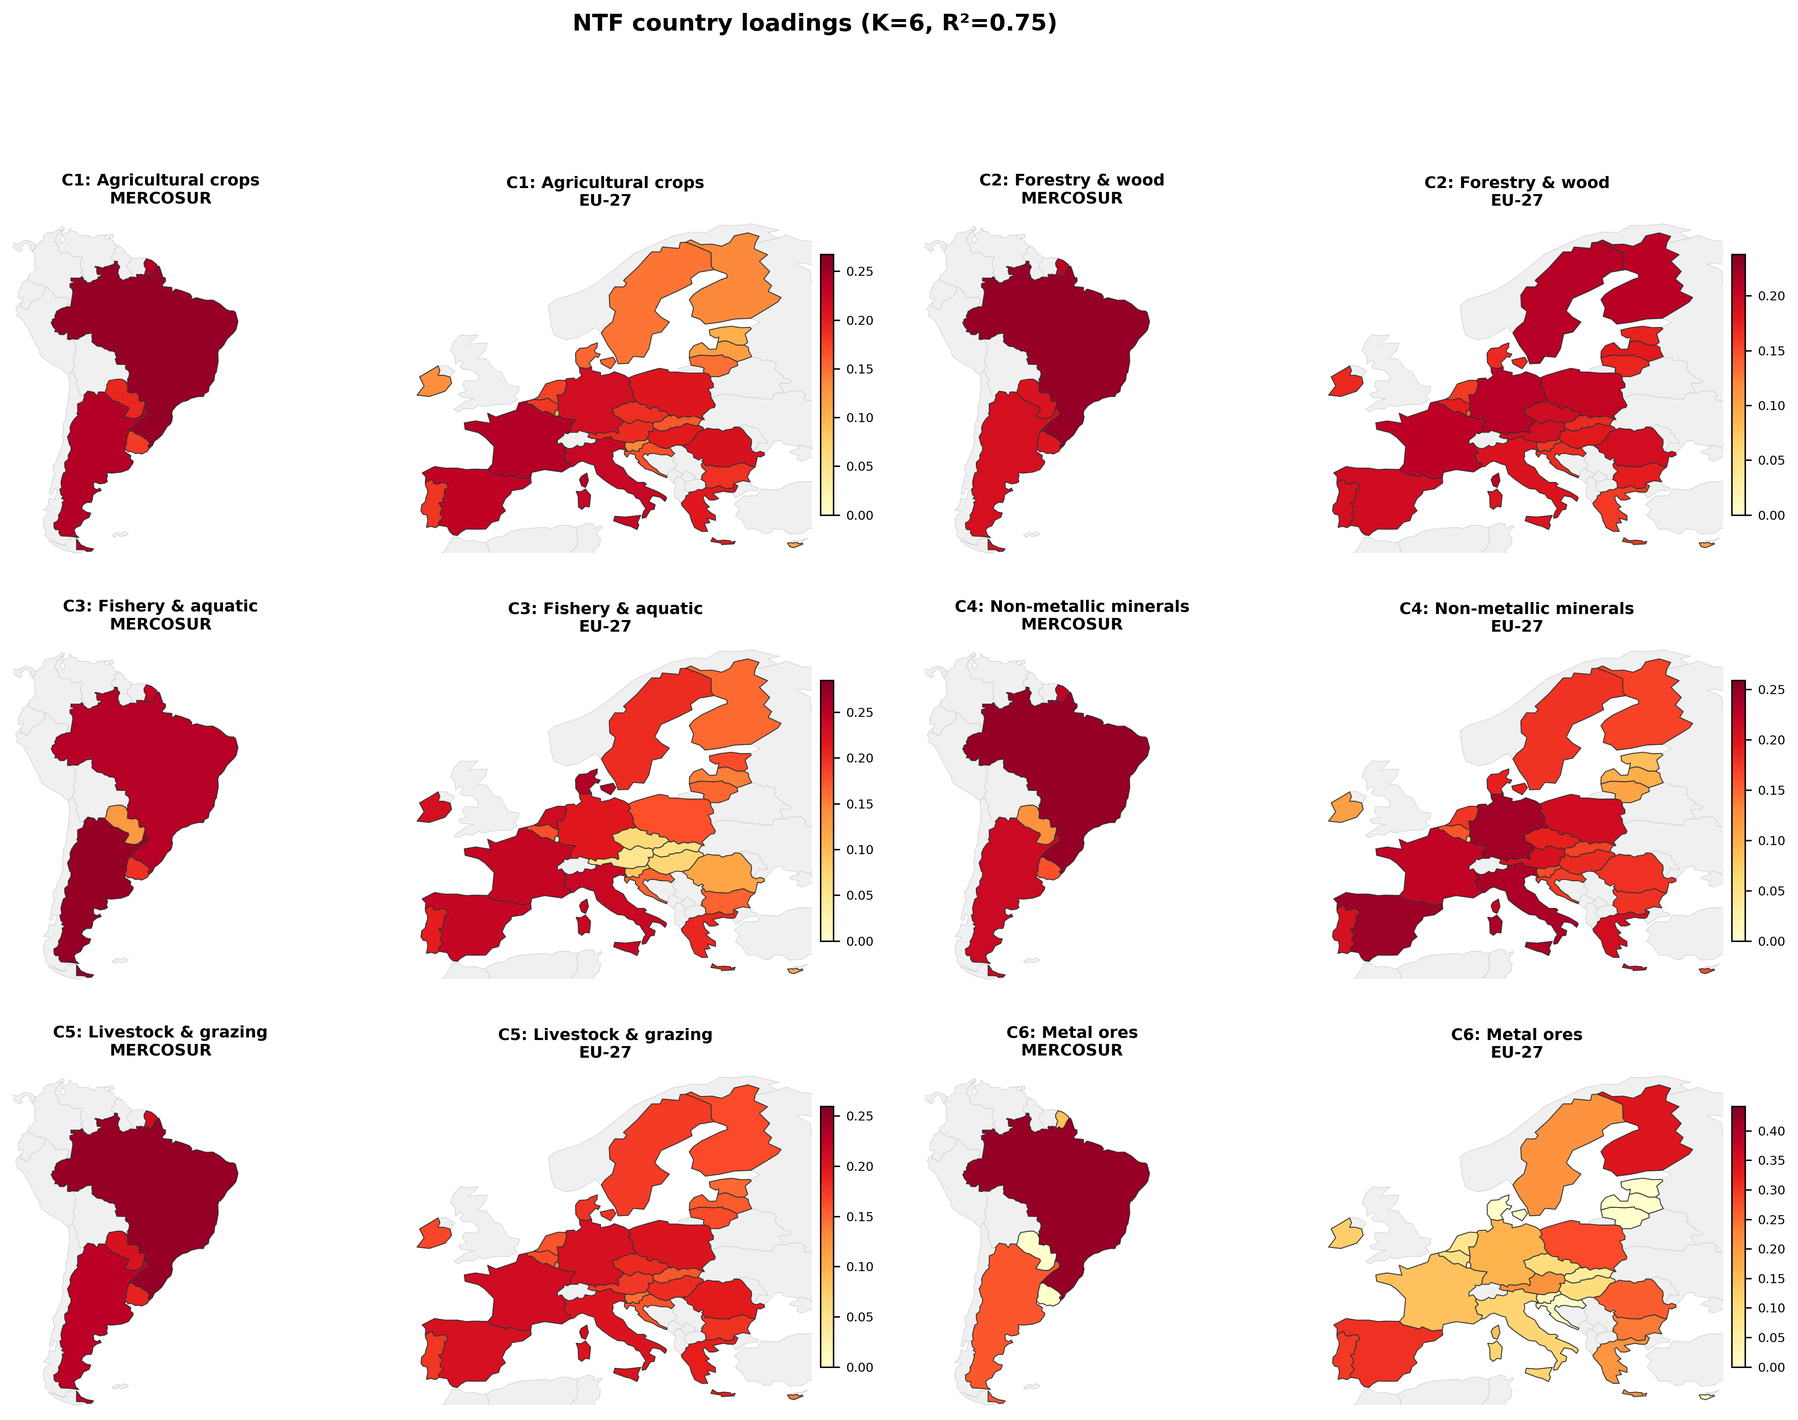
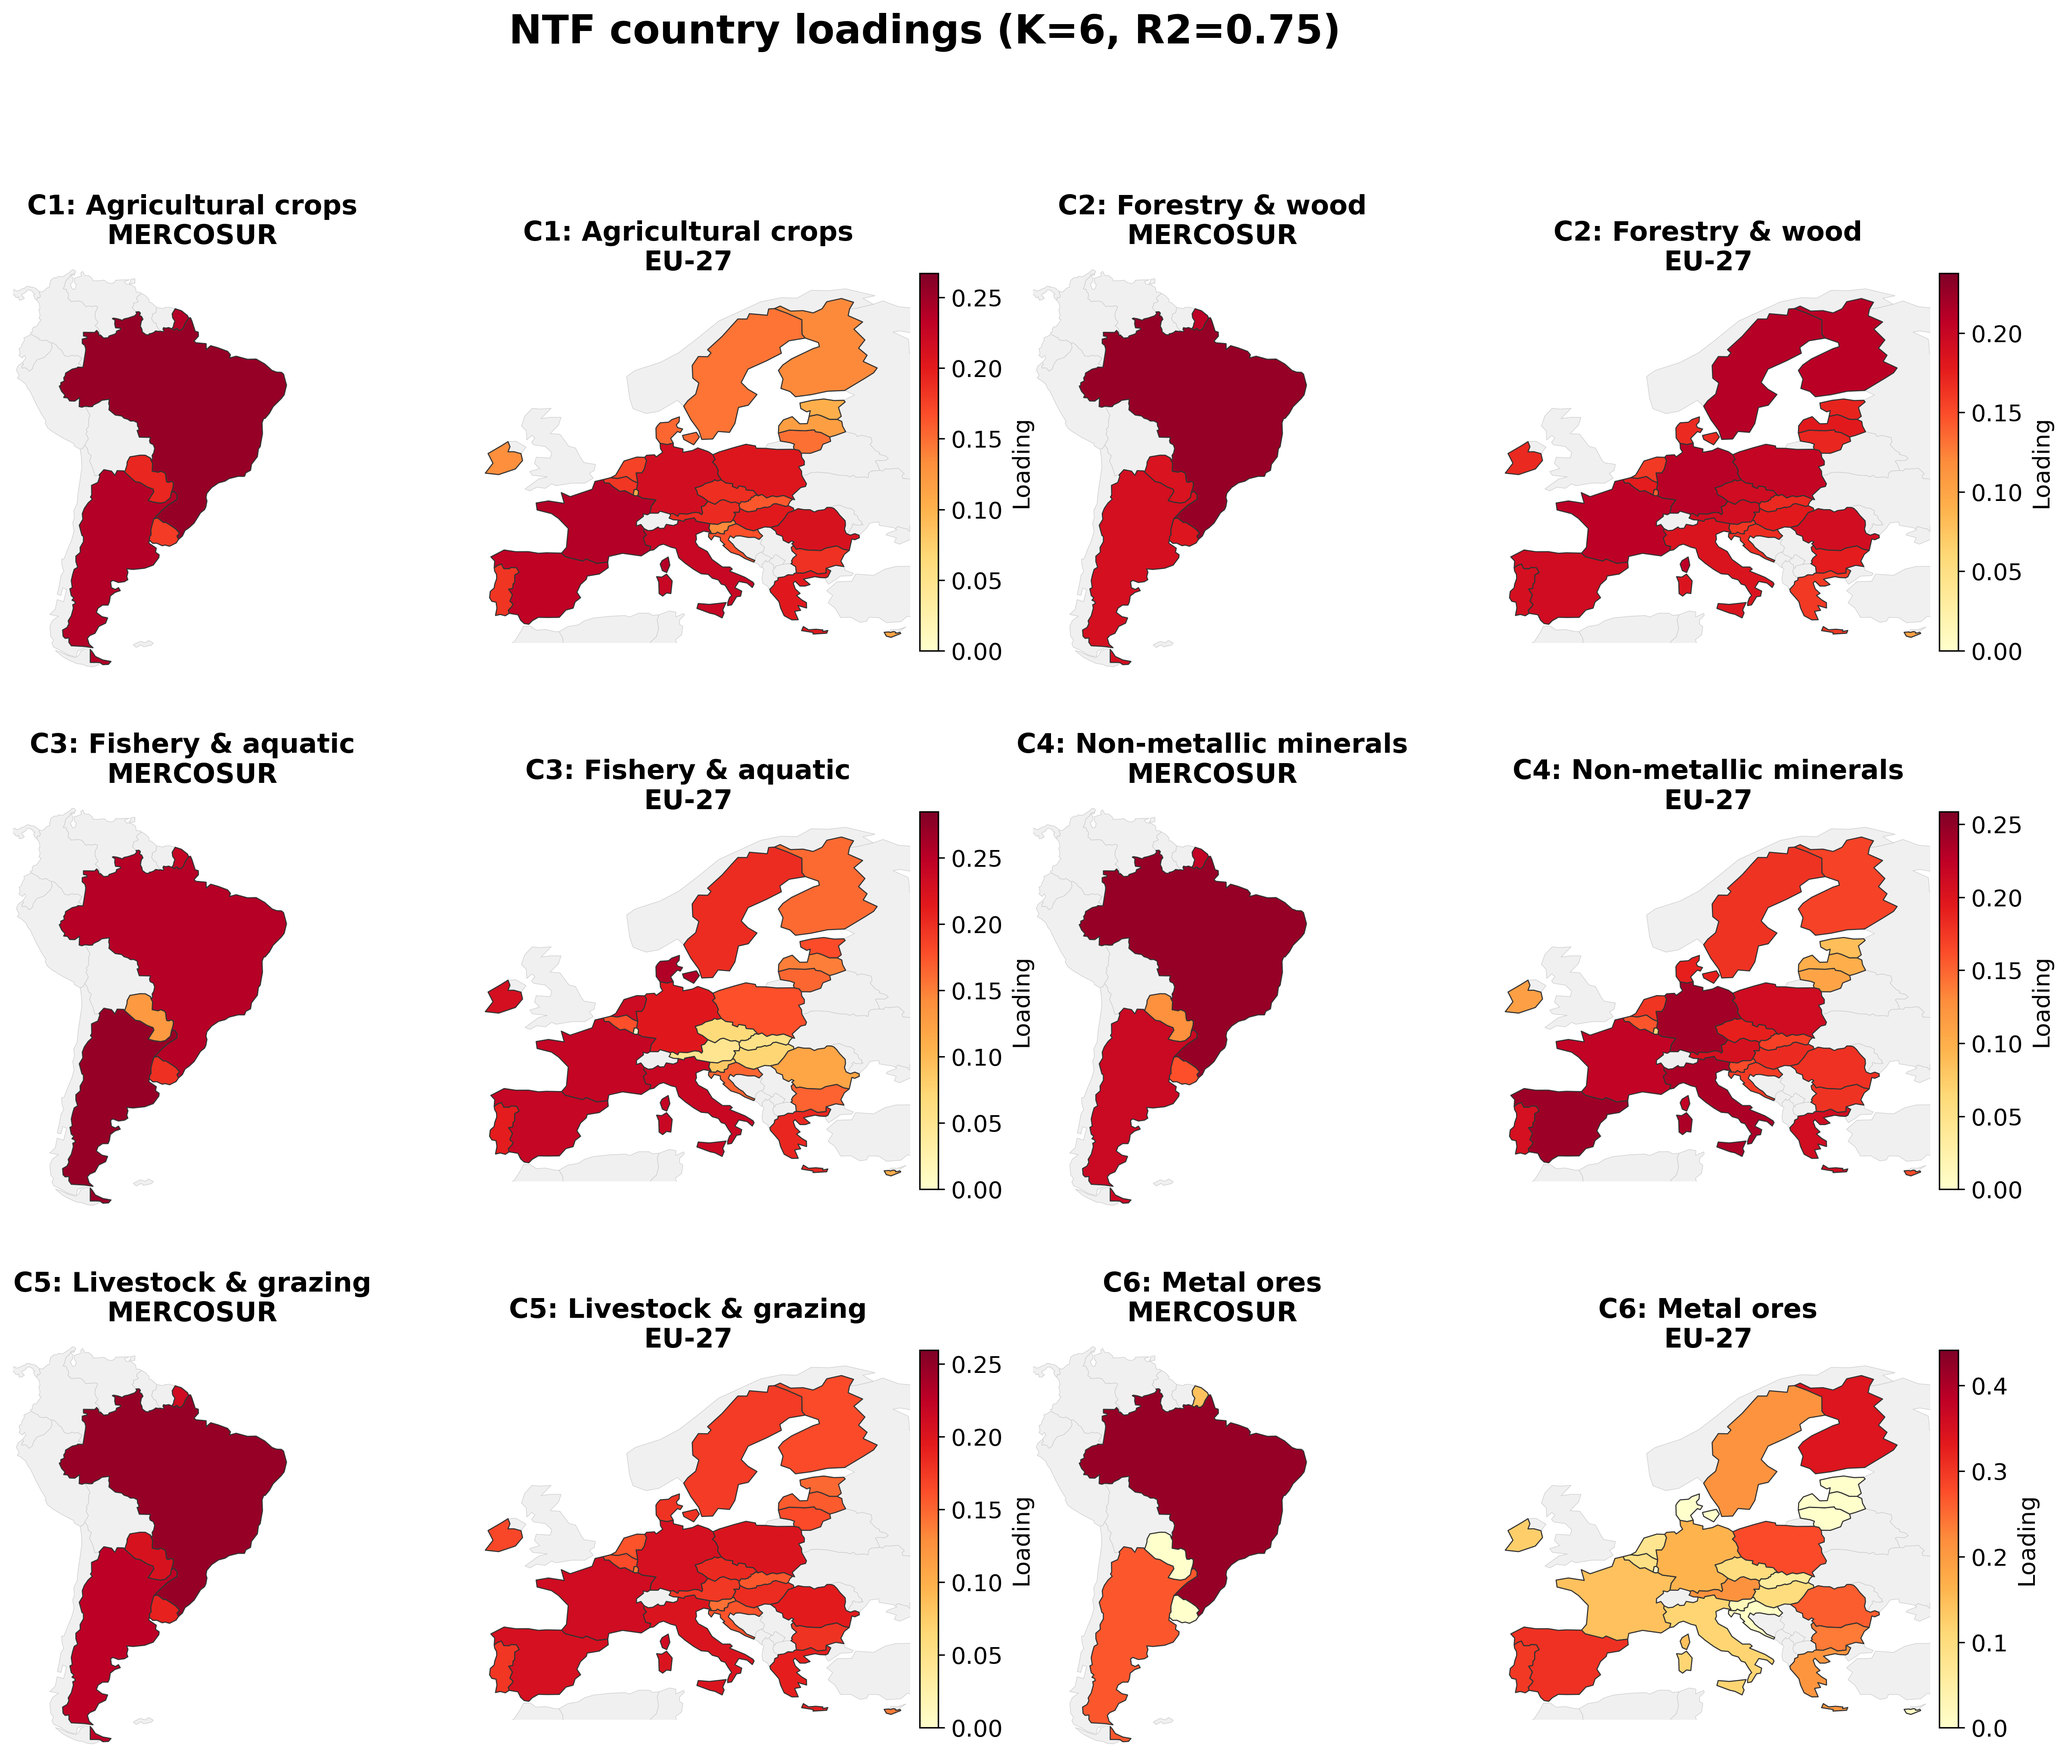
Enlarge fonts on main-text figures 2, 4, 5
Regenerate the historical stacked-area (Fig 2), choropleth loadings (Fig 4),
and projection-scenario (Fig 5) figures with larger titles, axis labels,
tick labels, legends, and in-panel annotations for legibility. Add
scripts/06_regenerate_main_figures.py (standalone; runs from intermediate
data without the full GLORIA tensor).

diff --git a/scripts/06_regenerate_main_figures.py b/scripts/06_regenerate_main_figures.py
@@ -1,0 +1,151 @@
+"""
+06_regenerate_main_figures.py — Large-font versions of Figs 2, 4, 5
+===================================================================
+Regenerates the three main-text figures with enlarged, legible fonts
+(interior labels, axis ticks, scale legends). Standalone: reads only the
+intermediate data in data/ (ntf_loadings.nc, tensor_summary.parquet, the
+Natural Earth shapefile) — the full GLORIA tensor is not required.
+
+Outputs (JIE figure names) to figures/:
+  fig02_historical_trends.png    stacked-area extraction by MFA category
+  fig04_choropleth_loadings.png  choropleth of NTF country loadings
+  fig05_projection_scenarios.png baseline vs agreement temporal loadings
+"""
+import numpy as np
+import pandas as pd
+import xarray as xr
+import matplotlib.pyplot as plt
+import matplotlib.colors as mcolors
+import matplotlib.gridspec as gridspec
+import geopandas as gpd
+
+from config import (
+    DATA_DIR, FIG_DIR, COMP_LABELS, BLOC_COLORS, MFA_COLORS, MFA_ORDER,
+    AGREEMENT_SHOCKS, AGREEMENT_YEAR, PHASE_IN_YEARS, PROJECTION_END,
+    N_BOOTSTRAP, RANDOM_SEED,
+)
+
+plt.rcParams.update({
+    "font.size": 14, "axes.titlesize": 17, "axes.labelsize": 16,
+    "xtick.labelsize": 13, "ytick.labelsize": 13, "legend.fontsize": 15,
+    "figure.titlesize": 22,
+})
+
+loadings = xr.open_dataset(DATA_DIR / "ntf_loadings.nc")
+K = int(loadings.attrs["optimal_K"])
+R2 = float(loadings.attrs["final_R2"])
+country_codes = list(loadings.coords["country"].values)
+blocs = list(loadings.coords["bloc"].values)
+years = list(loadings.coords["year"].values)
+yl = loadings["year_loading"].values
+cl = loadings["country_loading"].values
+clabel = {f"C{k+1}": COMP_LABELS[k] for k in range(K)}
+
+# --- Fig 2: historical stacked area ---
+print("Fig 2 ...")
+ts = pd.read_parquet(DATA_DIR / "tensor_summary.parquet")
+fig, axes = plt.subplots(1, 2, figsize=(18, 7))
+for bi, (bloc, label, ax) in enumerate(zip(["MERCOSUR", "EU27"],
+                                           ["MERCOSUR-4", "EU-27"], axes)):
+    pivot = (ts[ts["bloc"] == bloc].groupby(["year", "mfa_category"])["tonnes"]
+             .sum().unstack("mfa_category")[MFA_ORDER] / 1e6)
+    pivot.plot.area(ax=ax, color=[MFA_COLORS[c] for c in MFA_ORDER],
+                    alpha=0.8, linewidth=0)
+    ax.set_title(label, fontsize=19, fontweight="bold")
+    ax.set_xlabel("Year", fontsize=16)
+    ax.set_ylabel("Megatonnes" if bi == 0 else "", fontsize=16)
+    ax.tick_params(labelsize=14)
+    ax.legend(loc="upper left", fontsize=15, frameon=True, framealpha=0.85)
+    ax.grid(True, alpha=0.2)
+plt.suptitle("Material extraction by MFA category (1990-2022)",
+             fontsize=22, fontweight="bold")
+plt.tight_layout()
+plt.savefig(FIG_DIR / "fig02_historical_trends.png", dpi=300, bbox_inches="tight")
+plt.close()
+
+# --- Fig 4: choropleth ---
+print("Fig 4 ...")
+world = gpd.read_file(DATA_DIR / "ne_110m_admin_0_countries.zip")
+world["ISO_A3"] = world["ISO_A3"].replace({"-99": None, "-099": None})
+for nm, code in {"France": "FRA", "Norway": "NOR", "Kosovo": "XKX"}.items():
+    world.loc[world["NAME_EN"] == nm, "ISO_A3"] = code
+sa_bounds, eu_bounds = [-82, -56, -20, 15], [-12, 34, 35, 72]
+fig = plt.figure(figsize=(20, 5 * ((K + 1) // 2)))
+gs = gridspec.GridSpec((K + 1) // 2, 4, wspace=0.08, hspace=0.30)
+cmap = plt.cm.YlOrRd
+for k in range(K):
+    row, col = k // 2, (k % 2) * 2
+    vals = cl[:, k]
+    merged = world.merge(pd.DataFrame({"ISO_A3": country_codes, "loading": vals}),
+                         on="ISO_A3", how="left")
+    vmax = vals.max() * 1.05
+    for panel, bounds, sub in [(col, sa_bounds, "MERCOSUR"),
+                               (col + 1, eu_bounds, "EU-27")]:
+        ax = fig.add_subplot(gs[row, panel])
+        world.plot(ax=ax, color="#f0f0f0", edgecolor="#cccccc", linewidth=0.3)
+        merged[merged["loading"].notna()].plot(
+            ax=ax, column="loading", cmap=cmap, vmin=0, vmax=vmax,
+            edgecolor="#333333", linewidth=0.6)
+        ax.set_xlim(bounds[0], bounds[2]); ax.set_ylim(bounds[1], bounds[3])
+        ax.set_title(f"C{k+1}: {clabel[f'C{k+1}']}\n{sub}",
+                     fontsize=15, fontweight="bold")
+        ax.axis("off")
+        if sub == "EU-27":
+            sm = plt.cm.ScalarMappable(cmap=cmap, norm=mcolors.Normalize(0, vmax))
+            sm.set_array([])
+            cbar = plt.colorbar(sm, ax=ax, fraction=0.04, pad=0.02)
+            cbar.ax.tick_params(labelsize=13)
+            cbar.set_label("Loading", fontsize=13)
+plt.suptitle(f"NTF country loadings (K={K}, R2={R2:.2f})",
+             fontsize=22, fontweight="bold", y=1.005)
+plt.savefig(FIG_DIR / "fig04_choropleth_loadings.png", dpi=300, bbox_inches="tight")
+plt.close()
+
+# --- Fig 5: projection scenarios ---
+print("Fig 5 ...")
+np.random.seed(RANDOM_SEED)
+proj_years = list(range(years[-1] + 1, PROJECTION_END))
+n_hist, n_proj = len(years), len(proj_years)
+t, t_proj = np.arange(n_hist), np.arange(n_hist, n_hist + n_proj)
+trend, resid = {}, {}
+for k in range(K):
+    c = np.polyfit(t, yl[:, k], 2)
+    trend[k], resid[k] = c, yl[:, k] - np.polyval(c, t)
+merc = np.array([b == "MERCOSUR" for b in blocs])
+eu = np.array([b == "EU27" for b in blocs])
+phase = np.clip((np.array(proj_years) - AGREEMENT_YEAR) / PHASE_IN_YEARS, 0.0, 1.0)
+pb = np.zeros((N_BOOTSTRAP, n_proj, K)); pa = np.zeros((N_BOOTSTRAP, n_proj, K))
+for b in range(N_BOOTSTRAP):
+    for k in range(K):
+        base = np.polyval(trend[k], t_proj) + np.random.choice(resid[k], n_proj, replace=True)
+        mb, eb = AGREEMENT_SHOCKS[k]["mercosur_export_boost"], AGREEMENT_SHOCKS[k]["eu_export_boost"]
+        mw, ew = cl[merc, k].sum(), cl[eu, k].sum()
+        ab = (mb * mw + eb * ew) / (mw + ew) if (mw + ew) > 0 else 0.0
+        pb[b, :, k] = np.maximum(base, 0)
+        pa[b, :, k] = np.maximum(base * (1 + ab * phase), 0)
+b_med, b_lo, b_hi = np.median(pb, 0), np.percentile(pb, 5, 0), np.percentile(pb, 95, 0)
+a_med, a_lo, a_hi = np.median(pa, 0), np.percentile(pa, 5, 0), np.percentile(pa, 95, 0)
+fig, axes = plt.subplots(2, 3, figsize=(20, 11)); axf = axes.flatten()
+for k in range(K):
+    ax = axf[k]
+    ax.plot(years, yl[:, k], "k-", lw=2.5, label="Observed")
+    ax.plot(proj_years, b_med[:, k], "--", color="#7f8c8d", lw=2.2, label="Baseline (no agreement)")
+    ax.fill_between(proj_years, b_lo[:, k], b_hi[:, k], color="#7f8c8d", alpha=0.18)
+    ax.plot(proj_years, a_med[:, k], "-", color="#e74c3c", lw=2.8, label="Agreement scenario")
+    ax.fill_between(proj_years, a_lo[:, k], a_hi[:, k], color="#e74c3c", alpha=0.18)
+    ax.axvline(AGREEMENT_YEAR, color="#2c3e50", lw=1.2, ls=":", alpha=0.7)
+    ax.annotate("Agreement\nenters force", xy=(AGREEMENT_YEAR, ax.get_ylim()[1] * 0.93),
+                fontsize=12, ha="center", color="#2c3e50", fontweight="bold")
+    ax.set_title(f"C{k+1}: {clabel[f'C{k+1}']}", fontsize=18, fontweight="bold")
+    ax.tick_params(labelsize=14); ax.grid(True, alpha=0.2)
+    if k >= 3:
+        ax.set_xlabel("Year", fontsize=16)
+    if k == 0:
+        ax.legend(fontsize=14, frameon=True, framealpha=0.9, loc="upper left")
+plt.suptitle("Projected NTF temporal loadings: baseline vs. agreement scenario\n"
+             "(shaded bands: 90% trend-only bootstrap CI, n=1,000 - not agreement-effect uncertainty)",
+             fontsize=20, fontweight="bold")
+plt.tight_layout(rect=[0, 0, 1, 0.96])
+plt.savefig(FIG_DIR / "fig05_projection_scenarios.png", dpi=300, bbox_inches="tight")
+plt.close()
+print("Done.")
